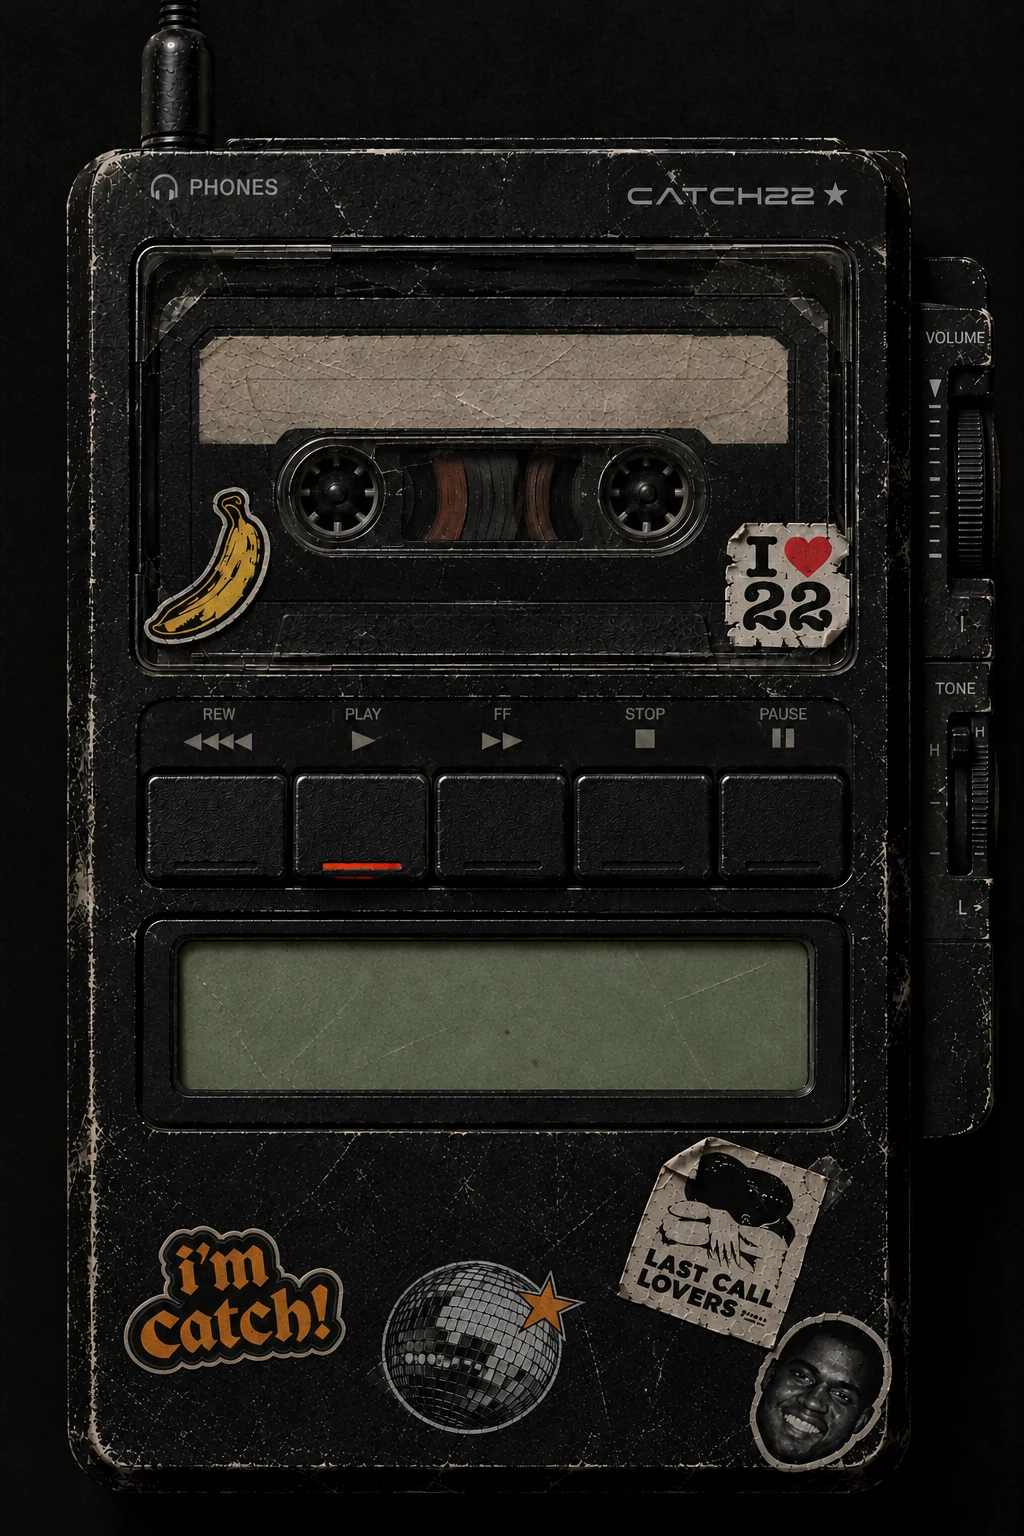
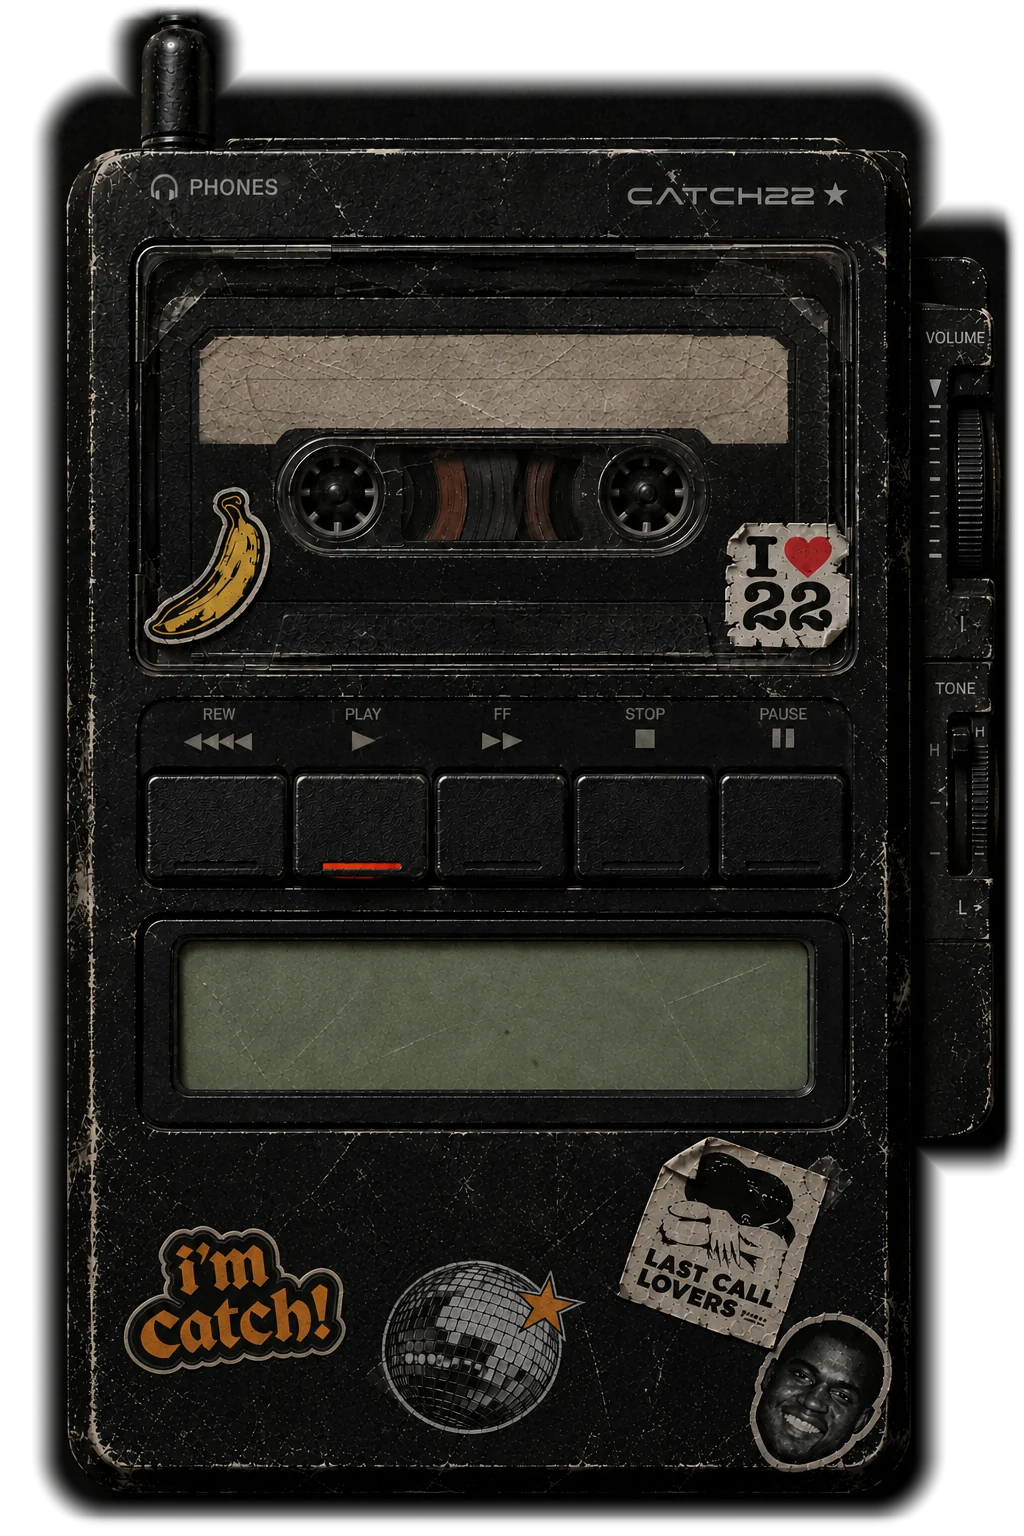
Продление матового фона вокруг плеера без видимой рамки кадра

Changed region(s): [[0.0, 0.0, 1.0, 1.0]]

diff --git a/assets/player.css b/assets/player.css
@@ -16,13 +16,13 @@ html {
   min-height: 100%;
   -webkit-text-size-adjust: 100%;
   color-scheme: dark;
-  /* Рисуем амбиент на корневом холсте: он заполняет и экран, и safe area
-     Safari на iPad, не обрезаясь вместе с блоком страницы. */
-  background-color: #000;
-  background-image: radial-gradient(125% 100% at 50% 42%, #0000 52%, #000000b3 100%), url('layers/noise.png');
+  /* Продолжаем матовый фон фотографии (#0b0b0a + спектральное зерно noise.png)
+     на весь корневой холст и safe area Safari, без резкого затемнения вокруг плеера. */
+  background-color: #0b0b0a;
+  background-image: radial-gradient(130% 110% at 50% 44%, #0000 68%, #00000045 100%), url('layers/noise.png?v=2');
   background-repeat: no-repeat, repeat;
   background-position: center, left top;
-  background-size: cover, 192px 192px;
+  background-size: cover, 256px 256px;
 }
 body { min-height: 100vh; min-height: 100dvh; margin: 0; background: transparent; color: var(--paper); font-family: 'Courier New', Courier, monospace; -webkit-font-smoothing: antialiased; -webkit-tap-highlight-color: transparent; }
 button { font: inherit; }
@@ -34,8 +34,9 @@ button { font: inherit; }
 
 /* ---------- устройство: фото-панель, поверх — бобины, наклейка, дисплей, клавиши ---------- */
 /* высота плеера — не больше 72% высоты окна: вокруг всегда остаётся фон
-   (важно на iPad и в ландшафте, где раньше плеер упирался в края экрана) */
-.device { position: relative; width: min(500px, 100%, calc(72vh * 2 / 3)); width: min(500px, 100%, calc(72dvh * 2 / 3)); margin: 0 auto; aspect-ratio: 1024 / 1536; container-type: inline-size; isolation: isolate; filter: drop-shadow(0 30px 60px #000d) drop-shadow(0 6px 16px #000b); }
+   (важно на iPad и в ландшафте, где раньше плеер упирался в края экрана).
+   Тень строится по прозрачному силуэту plate.webp, а не по прямоугольнику кадра. */
+.device { position: relative; width: min(500px, 100%, calc(72vh * 2 / 3)); width: min(500px, 100%, calc(72dvh * 2 / 3)); margin: 0 auto; aspect-ratio: 1024 / 1536; container-type: inline-size; isolation: isolate; filter: drop-shadow(8px 22px 26px #000c) drop-shadow(2px 6px 8px #000a); }
 .plate { position: absolute; inset: 0; width: 100%; height: 100%; display: block; z-index: 1; }
 
 /* Бобины, вырезанные из IMG_1468.png: вращаются только при игре */
@@ -53,7 +54,7 @@ button { font: inherit; }
    крупнее и контрастнее прежнего пиксельного Handjet. Блок точно по бумаге
    (в фото 1024x1536: x 199-788, y 334-427). text-stroke и тень добавляют
    glyph-массу — лента машинки пробивает жирнее, чем экранная кегль. */
-.cassette-label { position: absolute; left: 19%; width: 58%; top: 21.9%; height: 6.1%; z-index: 4; display: grid; place-items: center; margin: 0; color: #140e09; font: 400 4.4cqw/1 'Special Elite', 'Courier New', Courier, monospace; text-align: center; -webkit-text-stroke: .06cqw #140e09; text-shadow: 0 0 .14cqw #140e0966; mix-blend-mode: multiply; opacity: 1; transform: rotate(-.8deg); pointer-events: none; /* печать: неровная краска, зерно и растекание (фильтр #print-ink в index.html) */ filter: url(#print-ink); }
+.cassette-label { position: absolute; left: 19%; width: 58%; top: 21.9%; height: 6.1%; z-index: 4; display: grid; place-items: center; margin: 0; color: #140e09; font: 400 4.3cqw/1 'Special Elite', 'Courier New', Courier, monospace; white-space: nowrap; text-align: center; -webkit-text-stroke: .06cqw #140e09; text-shadow: 0 0 .14cqw #140e0966; mix-blend-mode: multiply; opacity: 1; transform: rotate(-.8deg); pointer-events: none; /* печать: неровная краска, зерно и растекание (фильтр #print-ink в index.html) */ filter: url(#print-ink); }
 
 /* Чёрное печатное «catch» внутри красного сердечка на стикере «I ♥ 22» */
 .heart-tag { position: absolute; left: 78.86%; top: 36.4%; transform: translate(-50%, -50%) rotate(-4deg); z-index: 4; margin: 0; color: #000; font: 700 2.15cqw/1 'Handjet', 'Courier New', Courier, monospace; letter-spacing: .02em; white-space: nowrap; pointer-events: none; text-shadow: 0 .12cqw #5a0a0a55; opacity: 1; }

diff --git a/index.html b/index.html
@@ -3,10 +3,10 @@
 <head>
 <meta charset="UTF-8">
 <meta name="viewport" content="width=device-width, initial-scale=1.0, viewport-fit=cover">
-<meta name="theme-color" content="#101010">
+<meta name="theme-color" content="#0b0b0a">
 <title>Catch 22 — День Рождения</title>
 <link rel="preload" href="assets/hbd.mp3" as="audio">
-<link rel="stylesheet" href="assets/player.css">
+<link rel="stylesheet" href="assets/player.css?v=2">
 </head>
 <body>
 <!-- фильтр «печатной» краски для надписи на бумажной наклейке: неровная плотность,
@@ -31,7 +31,7 @@
     <p>Сбор гостей — 20:00. Наб. Фонтанки, 86. Хранить. Не перезаписывать. Увидимся ♡</p>
   </div>
   <section class="device" id="player" aria-label="Кассетный плеер — приглашение Catch 22">
-    <img class="plate" src="assets/layers/plate.webp" alt="" width="1024" height="1536">
+    <img class="plate" src="assets/layers/plate.webp?v=2" alt="" width="1024" height="1536">
     <div class="reel reel-a" aria-hidden="true"><img src="assets/layers/reel-a.png" alt=""></div>
     <div class="reel reel-b" aria-hidden="true"><img src="assets/layers/reel-b.png" alt=""></div>
     <div class="glass" aria-hidden="true"></div>

diff --git a/tools/make_ambient.py b/tools/make_ambient.py
@@ -1,15 +1,20 @@
 #!/usr/bin/env python3
-"""Генерирует бесшовную зернистую текстуру фона под тон чёрного фона фото.
+"""Продлевает матовый тёмный фон IMG_1468.png на весь экран без видимой рамки.
 
-Статистика тёмных краёв IMG_1468.png: средняя яркость ~9-12, зерно std ~2.
-Текстура кладётся поверх чёрного фона в CSS (body::before) с повторением,
-поэтому вокруг плеера на планшетах виден тот же тон и то же зерно, что и в
-самом фото — граница «фото / страница» исчезает.
-
-Полутон подобрана так, чтобы итог совпал с фото:
-    mean = 128 * 23/255 ≈ 11.5,  std = 22 * 23/255 ≈ 2.0
-
-На выходе: assets/layers/noise.png (192x192 RGBA, ~30 КБ).
+Скрипт решает две задачи:
+1. Строит бесшовный тайл фона `assets/layers/noise.png` (256x256 RGB) методом
+   спектрального синтеза (2D FFT) по реальному участку матового фона из
+   верхней части `IMG_1468.png` (y=0..96, x=240..880). Сохраняются точный
+   тёплый оливково-угольный тон (RGB ≈ [10.9, 11.1, 9.8], #0b0b0a), разброс
+   яркости (std ≈ 2.0) и пространственная корреляция зерна (lag 1 ≈ 0.55,
+   lag 2 ≈ 0.11). За счёт периодичности БПФ тайл стыкуется без швов.
+2. Обновляет `assets/layers/plate.webp` (1024x1536 RGBA): корпус плеера,
+   боковой блок регуляторов и штекер наушников остаются полностью непрозрачными
+   (alpha = 255), а внешние поля кадра вокруг силуэта плеера плавно сводятся
+   к alpha = 0 (cubic smoothstep на полосе ~36 px) с выравниванием тона
+   к базовому фону. В результате у картинки исчезает прямоугольная граница
+   1024x1536, а CSS drop-shadow на `.device` ложится по реальному силуэту
+   плеера, а не вокруг прямоугольника фотографии.
 """
 
 import os
@@ -25,22 +30,124 @@ except ModuleNotFoundError as exc:  # подсказка вместо голог
     ) from exc
 
 ROOT = os.path.dirname(os.path.dirname(os.path.abspath(__file__)))
-OUT = os.path.join(ROOT, 'assets', 'layers', 'noise.png')
-SIZE = 192
-GRAY_MEAN, GRAY_SD = 128.0, 22.0
-ALPHA = 23  # из 255 — итоговый тон ≈ #0b0b0b с зерном ±2
+SRC = os.path.join(ROOT, 'IMG_1468.png')
+OUT_NOISE = os.path.join(ROOT, 'assets', 'layers', 'noise.png')
+OUT_PLATE = os.path.join(ROOT, 'assets', 'layers', 'plate.webp')
+
+SIZE = 256
+MAX_LAG = 5
+BASE_RGB = np.array([10.9, 11.1, 9.8], dtype=np.float64)
+GRAIN_STD = 2.0
 
 
-def build(out_path: str) -> None:
-    rng = np.random.default_rng(22)  # фиксированный seed — файл воспроизводим
-    g = rng.normal(GRAY_MEAN, GRAY_SD, (SIZE, SIZE)).clip(0, 255).astype(np.uint8)
-    a = np.full((SIZE, SIZE), ALPHA, np.uint8)
-    img = Image.fromarray(np.dstack([g, g, g, a]), 'RGBA')
+def sd_round_rect(
+    x: np.ndarray,
+    y: np.ndarray,
+    x0: float,
+    y0: float,
+    x1: float,
+    y1: float,
+    r: float,
+) -> np.ndarray:
+    """Знаковое расстояние до скруглённого прямоугольника [x0..x1] x [y0..y1]."""
+    cx = (x0 + x1) * 0.5
+    cy = (y0 + y1) * 0.5
+    hx = (x1 - x0) * 0.5 - r
+    hy = (y1 - y0) * 0.5 - r
+    qx = np.abs(x - cx) - hx
+    qy = np.abs(y - cy) - hy
+    dx = np.maximum(qx, 0.0)
+    dy = np.maximum(qy, 0.0)
+    return np.hypot(dx, dy) + np.minimum(np.maximum(qx, qy), 0.0) - r
+
+
+def build_noise(src: np.ndarray, out_path: str) -> None:
+    """Генерирует бесшовный 256x256 RGB-тайл с тем же спектром зерна, что у фото."""
+    patch = src[0:96, 240:880, 1]
+    pad = np.pad(patch, 6, mode='reflect')
+    low = np.mean(
+        [[pad[i:i + 96, j:j + 640] for i in range(13)] for j in range(13)],
+        axis=(0, 1),
+    )
+    hp = patch - low
+
+    ac = np.zeros((SIZE, SIZE), dtype=np.float64)
+    h_p, w_p = hp.shape
+    for dy in range(-MAX_LAG, MAX_LAG + 1):
+        for dx in range(-MAX_LAG, MAX_LAG + 1):
+            y0, y1 = max(0, dy), min(h_p, h_p + dy)
+            x0, x1 = max(0, dx), min(w_p, w_p + dx)
+            c = (hp[y0:y1, x0:x1] * hp[y0 - dy:y1 - dy, x0 - dx:x1 - dx]).mean()
+            wy = 0.5 * (1.0 + np.cos(np.pi * dy / (MAX_LAG + 1)))
+            wx = 0.5 * (1.0 + np.cos(np.pi * dx / (MAX_LAG + 1)))
+            ac[dy % SIZE, dx % SIZE] = c * wy * wx
+
+    amp = np.sqrt(np.maximum(np.fft.fft2(ac).real, 0.0))
+    rng = np.random.default_rng(22)
+    grain = np.fft.ifft2(np.fft.fft2(rng.standard_normal((SIZE, SIZE))) * amp).real
+    grain = (grain - grain.mean()) / grain.std() * GRAIN_STD
+
+    tile_rgb = np.zeros((SIZE, SIZE, 3), dtype=np.float64)
+    for ch in range(3):
+        ch_n = rng.standard_normal((SIZE, SIZE)) * 0.25
+        tile_rgb[:, :, ch] = BASE_RGB[ch] + grain + ch_n
+
+    tile_u8 = np.clip(np.round(tile_rgb), 0, 255).astype(np.uint8)
     os.makedirs(os.path.dirname(out_path), exist_ok=True)
-    img.save(out_path, optimize=True)
-    print(f'{out_path} ({SIZE}x{SIZE}, mean {GRAY_MEAN * ALPHA / 255:.1f}, '
-          f'std {GRAY_SD * ALPHA / 255:.1f})')
+    Image.fromarray(tile_u8, 'RGB').save(out_path, optimize=True)
+    print(
+        f'noise: {out_path} ({SIZE}x{SIZE} RGB, '
+        f'mean={tile_u8.mean(axis=(0, 1)).round(2).tolist()}, '
+        f'std={tile_u8.std(axis=(0, 1)).round(2).tolist()})'
+    )
+
+
+def build_plate(src: np.ndarray, out_path: str) -> None:
+    """Сохраняет plate.webp с мягким сведением внешних полей фона в прозрачность."""
+    h, w, _ = src.shape
+    yy, xx = np.mgrid[0:h, 0:w].astype(np.float32)
+
+    # Силуэт плеера: основной корпус, боковой блок регуляторов и штекер наушников
+    d_body = sd_round_rect(xx, yy, 65, 102, 912, 1496, 42)
+    d_side = sd_round_rect(xx, yy, 890, 234, 1001, 1142, 16)
+    d_plug_barrel = sd_round_rect(xx, yy, 139, 26, 212, 120, 20)
+    d_plug_tip = sd_round_rect(xx, yy, 158, 2, 197, 45, 10)
+    d_player = np.minimum(
+        np.minimum(d_body, d_side),
+        np.minimum(d_plug_barrel, d_plug_tip),
+    )
+
+    d_edge = np.minimum(np.minimum(xx, w - 1 - xx), np.minimum(yy, h - 1 - yy))
+    t_halo = np.clip(1.0 - np.maximum(d_player, 0.0) / 36.0, 0.0, 1.0)
+    t_edge = np.clip((d_edge - 2.0) / 18.0, 0.0, 1.0)
+    t = t_halo * t_edge
+    alpha_f = t * t * (3.0 - 2.0 * t)
+    alpha = np.round(alpha_f * 255.0).astype(np.uint8)
+
+    src_mod = src.copy()
+    # Мягкое угасание самого верхнего среза провода штекера (y=0..14), чтобы не было
+    # горизонтального обрыва у верхнего края кадра
+    plug_fade = np.clip((yy - 2.0) / 12.0, 0.0, 1.0)[:, :, None]
+    src_mod[:16, 150:205, :] = (
+        src_mod[:16, 150:205, :] * plug_fade[:16, 150:205, :]
+        + BASE_RGB * (1.0 - plug_fade[:16, 150:205, :])
+    )
+    # В зоне полного растворения фиксируем базовый тон, чтобы WebP не давал ореолов
+    src_mod[alpha == 0] = BASE_RGB
+
+    plate_rgba = np.dstack([src_mod.clip(0, 255).astype(np.uint8), alpha])
+    os.makedirs(os.path.dirname(out_path), exist_ok=True)
+    Image.fromarray(plate_rgba, 'RGBA').save(
+        out_path, 'WEBP', quality=86, alpha_quality=90, method=6
+    )
+    print(f'plate: {out_path} ({w}x{h} RGBA WebP, border max alpha={alpha[0, :].max()})')
+
+
+def main() -> None:
+    src = np.asarray(Image.open(SRC).convert('RGB'), dtype=np.float64)
+    build_noise(src, OUT_NOISE)
+    build_plate(src, OUT_PLATE)
 
 
 if __name__ == '__main__':
-    build(OUT)
+    main()

diff --git a/README.md b/README.md
@@ -9,11 +9,15 @@ invite», набранной крупно и контрастно шрифтом
 красной полоски на клавише PLAY.
 
 Плеер никогда не занимает больше 72% высоты окна, поэтому на iPad и десктопе
-вокруг него остаётся фон на весь экран — тот же тон и то же зерно, что на чёрных
-краях фотографии (`assets/layers/noise.png`, генератор `tools/make_ambient.py`),
-с мягкой виньеткой. Фон задаётся на корневом холсте страницы, включая safe area
+вокруг него остаётся фон на весь экран — тот же тёплый оливково-угольный тон
+(`#0b0b0a`) и то же матовое зерно, что на тёмных полях фотографии
+(`assets/layers/noise.png`, 256×256 RGB со спектром корреляции из фото, генератор
+`tools/make_ambient.py`). У самой панели `assets/layers/plate.webp` внешние поля
+вокруг силуэта плеера плавно сведены в `alpha = 0`, поэтому прямоугольная
+граница кадра 1024×1536 отсутствует, а тень `.device` строится по реальному
+корпусу плеера. Фон задаётся на корневом холсте страницы, включая safe area
 Safari на iPad. На телефоне в портретной ориентации плеер по-прежнему
-масштабируется почти на весь экран, поля — само чёрное поле фото.
+масштабируется почти на весь экран.
 
 Клавиша PLAY запускает трек и анимацию вращения бобин, PAUSE и STOP останавливают.
 REW и FF перематывают на три секунды. Текст приглашения отображается на дисплее
@@ -49,9 +53,11 @@ python3 -m venv .venv
 
 - `IMG_1468.png` — исходное фото плеера; из него вырезаны бобины
   (`assets/layers/reel-a.png`, `reel-b.png`, см. `tools/cut_reels.py`),
-  а веб-панель сохранена в `assets/layers/plate.webp`.
-- `assets/layers/noise.png` — бесшовное зерно для фона вокруг плеера
-  (`tools/make_ambient.py`, тон и разброс подобраны по чёрным краям фото).
+  а веб-панель с мягкой альфа-маской вокруг корпуса сохранена в
+  `assets/layers/plate.webp` (`tools/make_ambient.py`).
+- `assets/layers/noise.png` — бесшовное матовое зерно 256×256 RGB для продления
+  фона вокруг плеера (`tools/make_ambient.py`, тон `#0b0b0a` и спектр зерна
+  сняты с верхнего поля фото методом 2D FFT).
 - `assets/fonts/handjet-*.woff2` — Handjet для дисплея и сердечка
   (кириллица + латиница).
 - `assets/fonts/special-elite-latin-400-normal.woff2` — Special Elite
